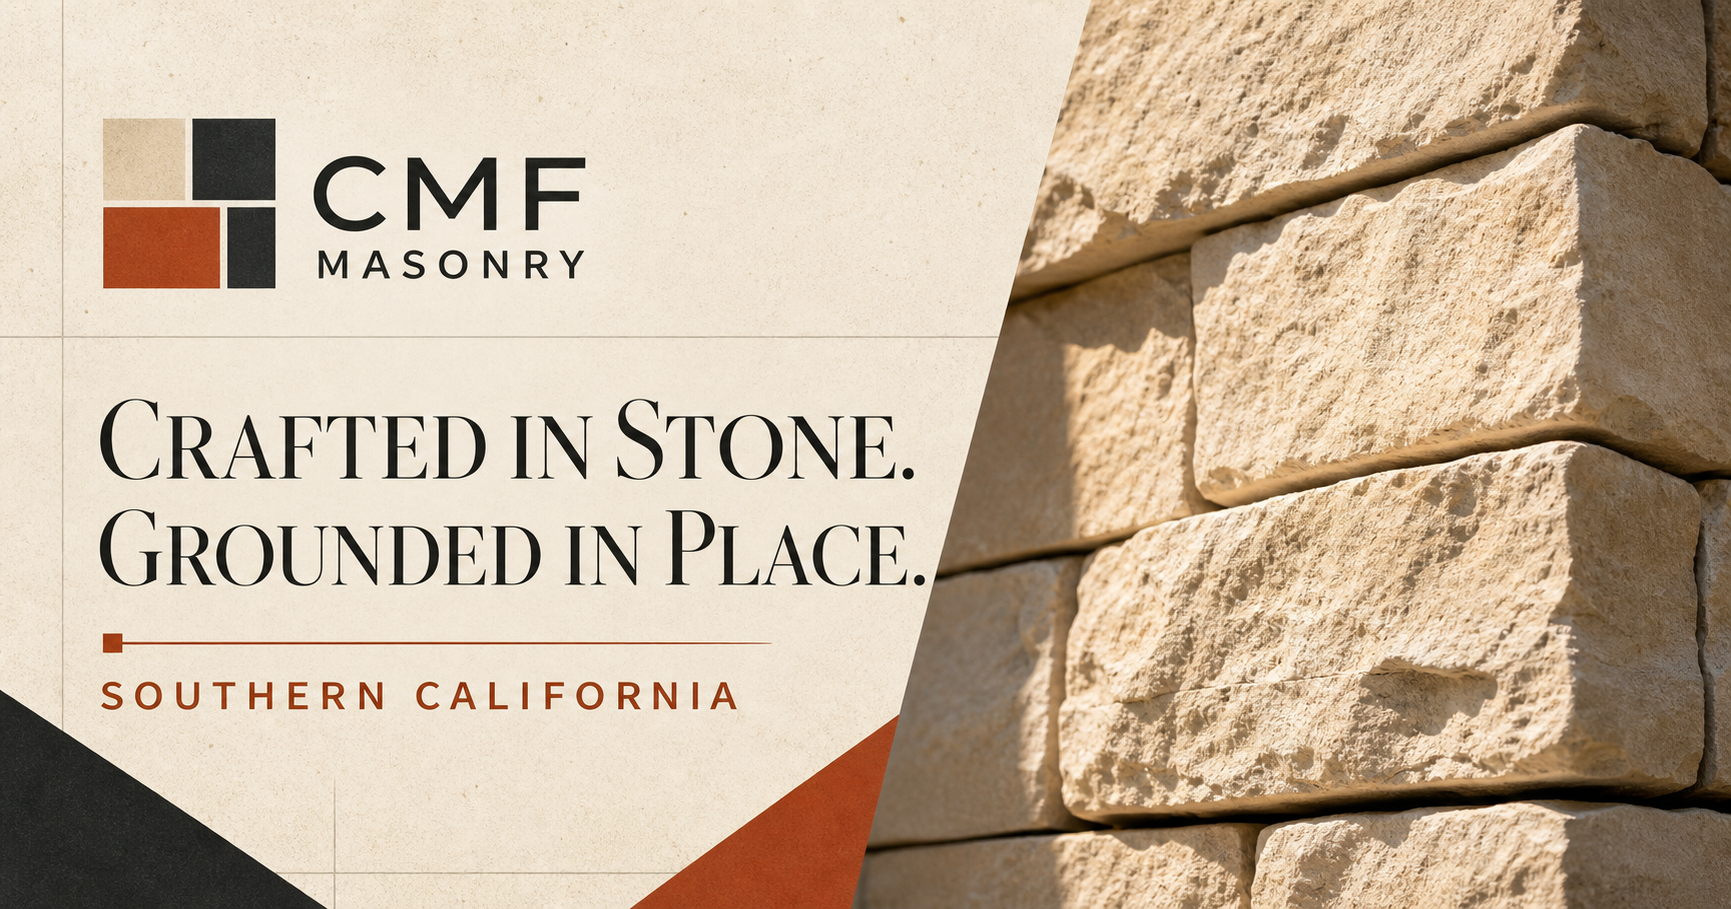
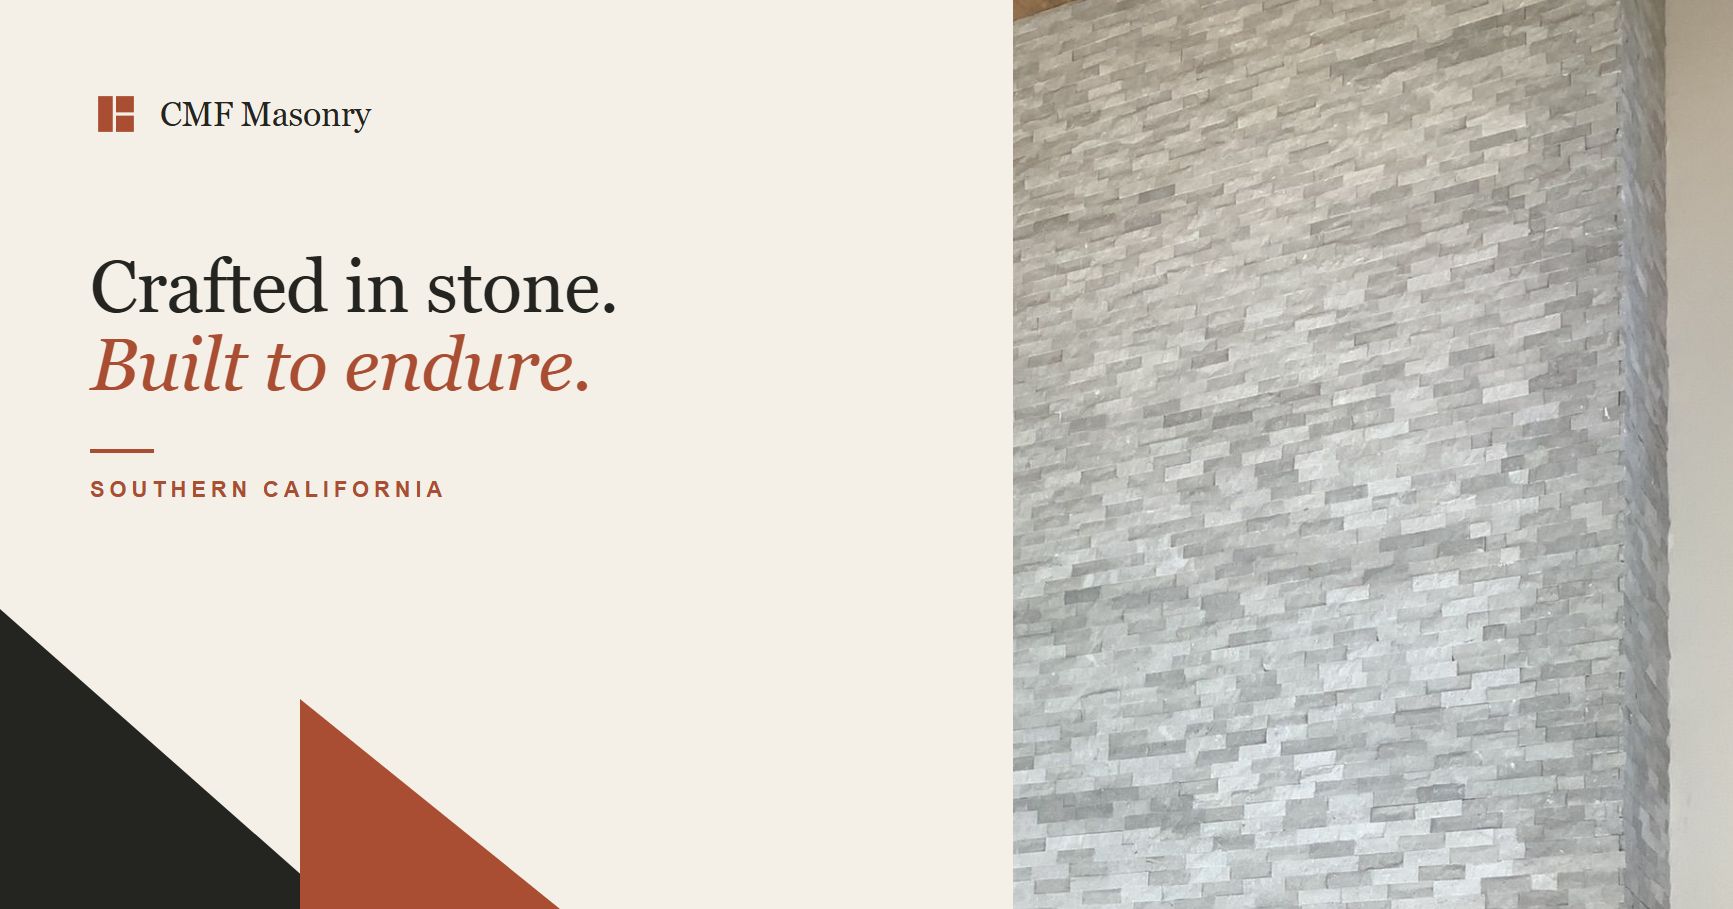
Regenerate OG share image with the current tagline
Rebuilt public/og.png (same brand mark, colors, and layout convention)
with "Crafted in Stone. Built to Endure." to match the tagline used
sitewide, replacing the outdated "Grounded in Place." version. Updated
the Open Graph title/alt text to match now that the image agrees with
it. Background photo is a real gallery image (stacked-stone fireplace
close-up), rendered via a temporary local HTML mockup and captured
with headless Chrome at the exact 1733x909 OG dimensions.

diff --git a/src/app/layout.tsx b/src/app/layout.tsx
@@ -16,11 +16,11 @@ export const metadata: Metadata = {
     "CMF Masonry installs natural & manufactured stone veneer, tile, brick, and architectural precast for homeowners, designers, architects, and general contractors across Southern California.",
   icons: { icon: "/favicon.svg", shortcut: "/favicon.svg" },
   openGraph: {
-    title: "CMF Masonry | Crafted in Stone. Grounded in Place.",
+    title: "CMF Masonry | Crafted in Stone. Built to Endure.",
     description: "Architectural masonry for Southern California homes and commercial spaces.",
     url: SITE_URL,
     siteName: "CMF Masonry",
-    images: [{ url: "/og.png", width: 1733, height: 909, alt: "CMF Masonry — Crafted in stone. Grounded in place." }],
+    images: [{ url: "/og.png", width: 1733, height: 909, alt: "CMF Masonry — Crafted in stone. Built to endure." }],
     type: "website",
   },
   twitter: { card: "summary_large_image", images: ["/og.png"] },
